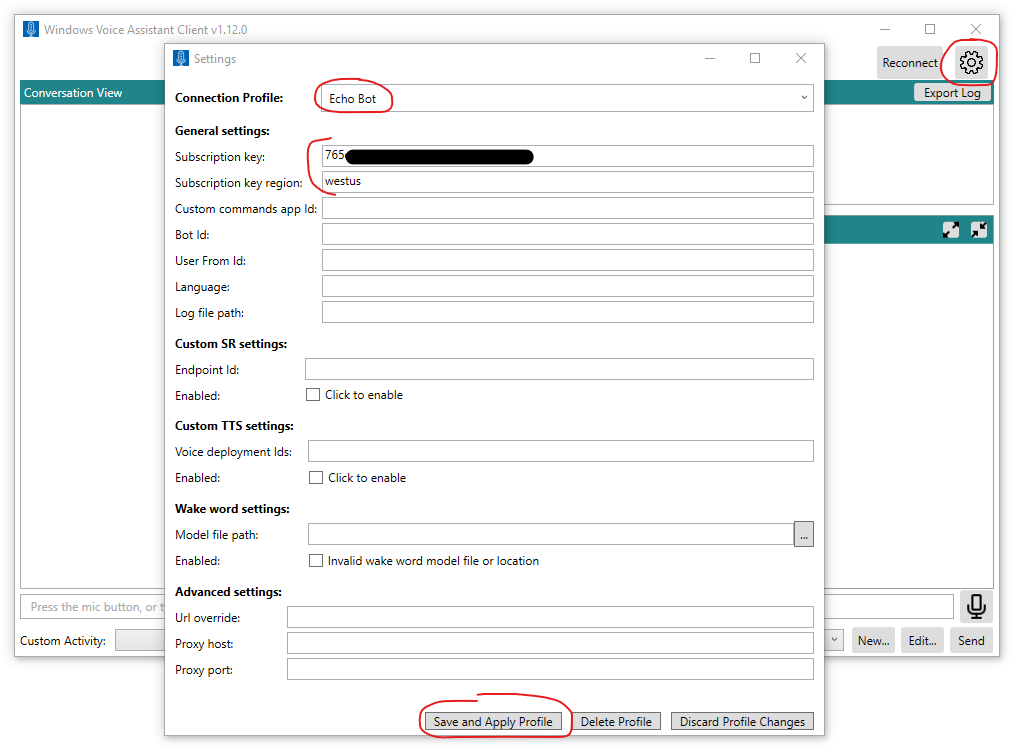
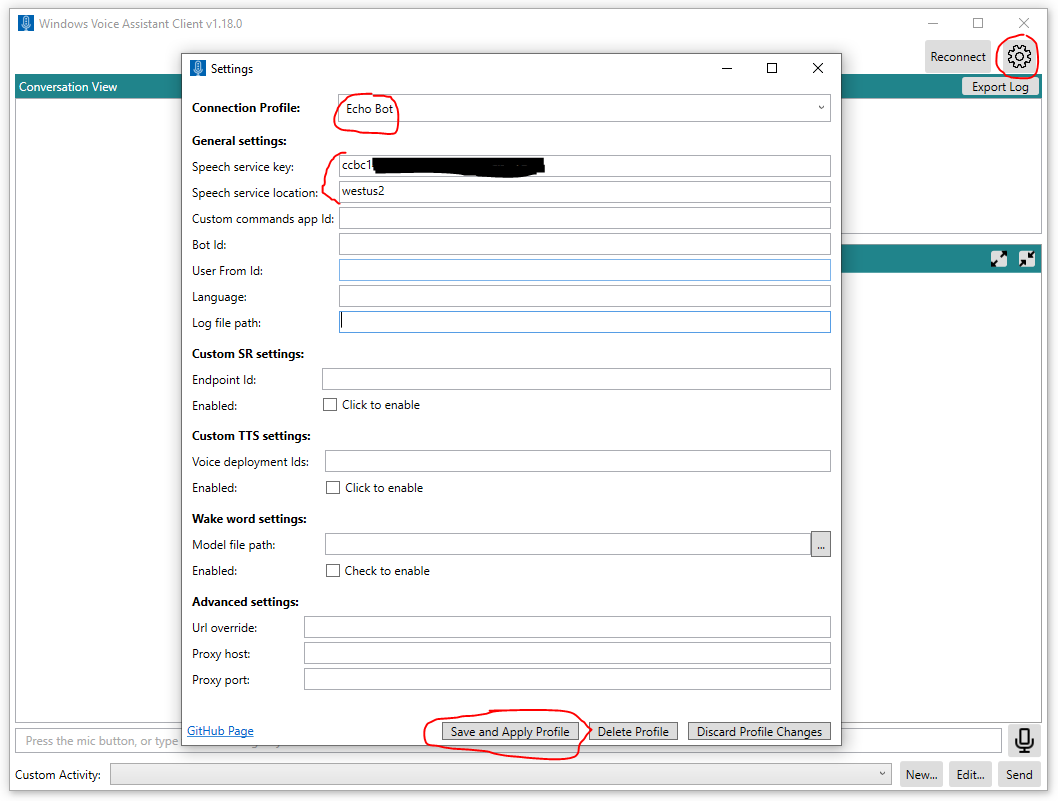
First

Changed region(s): [[0.0, 0.0, 0.9961, 1.0]]

diff --git a/clients/csharp-wpf/VoiceAssistantClient/SettingsDialog.xaml b/clients/csharp-wpf/VoiceAssistantClient/SettingsDialog.xaml
@@ -53,10 +53,10 @@
 
                 <Label  Grid.Row="0" Grid.Column="0" Content="General settings:" FontWeight="Bold" />
 
-                <Label Grid.Row="1" Grid.Column="0" Content="Subscription key:"/>
+                <Label Grid.Row="1" Grid.Column="0" Content="Speech service key:"/>
                 <TextBox Grid.Row="1" Grid.Column="1" Name="SubscriptionKeyTextBox" TextBoxBase.TextChanged="SubscriptionKeyTextBox_TextChanged"  Text="{Binding SubscriptionKey}"/>
 
-                <Label  Grid.Row="2" Grid.Column="0" Content="Subscription key region:"/>
+                <Label  Grid.Row="2" Grid.Column="0" Content="Speech service location:"/>
                 <TextBox  Grid.Row="2" Grid.Column="1" Name='SubscriptionRegionTextBox' TextBoxBase.TextChanged="SubscriptionKeyRegionTextBox_TextChanged" Text="{Binding SubscriptionKeyRegion}"/>
 
                 <Label Grid.Row="3" Grid.Column="0" Content="Custom commands app Id:"/>

diff --git a/clients/csharp-wpf/VoiceAssistantClient/Properties/AssemblyInfo.cs b/clients/csharp-wpf/VoiceAssistantClient/Properties/AssemblyInfo.cs
@@ -48,5 +48,5 @@ using System.Windows;
 // You can specify all the values or you can default the Build and Revision Numbers
 // by using the '*' as shown below:
 // [assembly: AssemblyVersion("1.0.*")]
-[assembly: AssemblyVersion("1.17.0.0")]
+[assembly: AssemblyVersion("1.18.0.0")]
 [assembly: NeutralResourcesLanguage("en-US")]

diff --git a/clients/csharp-wpf/README.md b/clients/csharp-wpf/README.md
@@ -48,8 +48,8 @@ Let's review the hardware, software, and subscriptions that you'll need to use t
     - Run the executable. For example, for Debug x64 build, this will be the executable: `VoiceAssistantClient\bin\x64\Debug\VoiceAssistantClient.exe`.
 1. When you first run the application, the **Settings** page will open. If this is not the first time you run the application, click on the gears icon on the top right to access the settings page. The first three fields are required (all others are optional). 
     - Enter _Connection Profile_. A name of your choice to identify this connection. The tool remembers multiple connection profiles so you can easily switch between them.
-    - Enter _Subscription key_. This is your Azure [Speech Services Key](https://docs.microsoft.com/en-us/azure/cognitive-services/speech-service/get-started).
-    - Enter _Subscription key region_. This is the Azure region of your key in the format specified by the "Speech SDK Parameter" column [in this table](https://docs.microsoft.com/en-us/azure/cognitive-services/speech-service/regions#speech-to-text-text-to-speech-and-translation) (for example "westus").
+    - Enter _Speech service key_. This is your Azure [Speech Services Key](https://docs.microsoft.com/en-us/azure/cognitive-services/speech-service/get-started).
+    - Enter _Speech service location_. This is the Azure region of your key in the format specified by the "Speech SDK Parameter" column [in this table](https://docs.microsoft.com/en-us/azure/cognitive-services/speech-service/regions#speech-to-text-text-to-speech-and-translation) (for example "westus").
     - Leave the field _Custom commands app Id_ empty (unless you plan to use [Custom Commands](#use-custom-commands)).
     - The default input language is "en-us" (US English). Update the _Language_ field as needed to select a different [language code from the "Speech-to-text" list](https://docs.microsoft.com/en-us/azure/cognitive-services/speech-service/language-support).
     - Press _Save and Apply Profile_ when you're done.
@@ -69,10 +69,10 @@ be shown at the top. The message **New conversation started -- type or press the
 If an error messages was shown in red in the main application window, use this table to troubleshoot:
 | Error | What should you do? |
 |-------|----------------------|
-|Error (AuthenticationFailure) : WebSocket Upgrade failed with an authentication error (401). Please check for correct subscription key (or authorization token) and region name| In the Settings page of the application, make sure you entered the Speech Subscription key and its region correctly.|
+|Error (AuthenticationFailure) : WebSocket Upgrade failed with an authentication error (401). Please check for correct speech service key (or authorization token) and service location| In the Settings page of the application, make sure you entered the Speech service key and its location correctly.|
 |Error (ConnectionFailure) : Connection was closed by the remote host. Error code: 1011. Error details: We could not connect to the bot before sending a message | Make sure you [checked the "Enable Streaming Endpoint" box and/or toggled "Web sockets" to On](https://docs.microsoft.com/en-us/azure/bot-service/bot-service-channel-connect-directlinespeech?view=azure-bot-service-4.0#enable-the-bot-framework-protocol-streaming-extensions)<br>Make sure your Azure App Service is running. If it is, try restarting your App Service.|
 |Error (ConnectionFailure) : Connection was closed by the remote host. Error code: 1002. Error details: The server returned status code '503' when status code '101' was expected | Make sure you [checked the "Enable Streaming Endpoint" box and/or toggled "Web sockets" to On](https://docs.microsoft.com/en-us/azure/bot-service/bot-service-channel-connect-directlinespeech?view=azure-bot-service-4.0#enable-the-bot-framework-protocol-streaming-extensions)<br>Make sure your Azure App Service is running. If it is, try restarting your App Service.|
-|Error (ConnectionFailure) : Connection was closed by the remote host. Error code: 1011. Error details: Response status code does not indicate success: 500 (InternalServerError)| Your bot specified a Neural Voice in its output Activity [Speak](https://github.com/microsoft/botframework-sdk/blob/master/specs/botframework-activity/botframework-activity.md#speak) field, but the Azure region associated with your Speech subscription key does not support Neural Voices. See [Standard and neural voices](https://docs.microsoft.com/en-us/azure/cognitive-services/speech-service/regions#standard-and-neural-voices).|
+|Error (ConnectionFailure) : Connection was closed by the remote host. Error code: 1011. Error details: Response status code does not indicate success: 500 (InternalServerError)| Your bot specified a Neural Voice in its output Activity [Speak](https://github.com/microsoft/botframework-sdk/blob/master/specs/botframework-activity/botframework-activity.md#speak) field, but the Azure service location associated with your Speech service key does not support Neural Voices. See [Standard and neural voices](https://docs.microsoft.com/en-us/azure/cognitive-services/speech-service/regions#standard-and-neural-voices).|
 
 
 See also _Debugging_ section in [Voice-first virtual assistants Preview: Frequently asked questions](https://docs.microsoft.com/en-us/azure/cognitive-services/speech-service/faq-voice-first-virtual-assistants#debugging)
